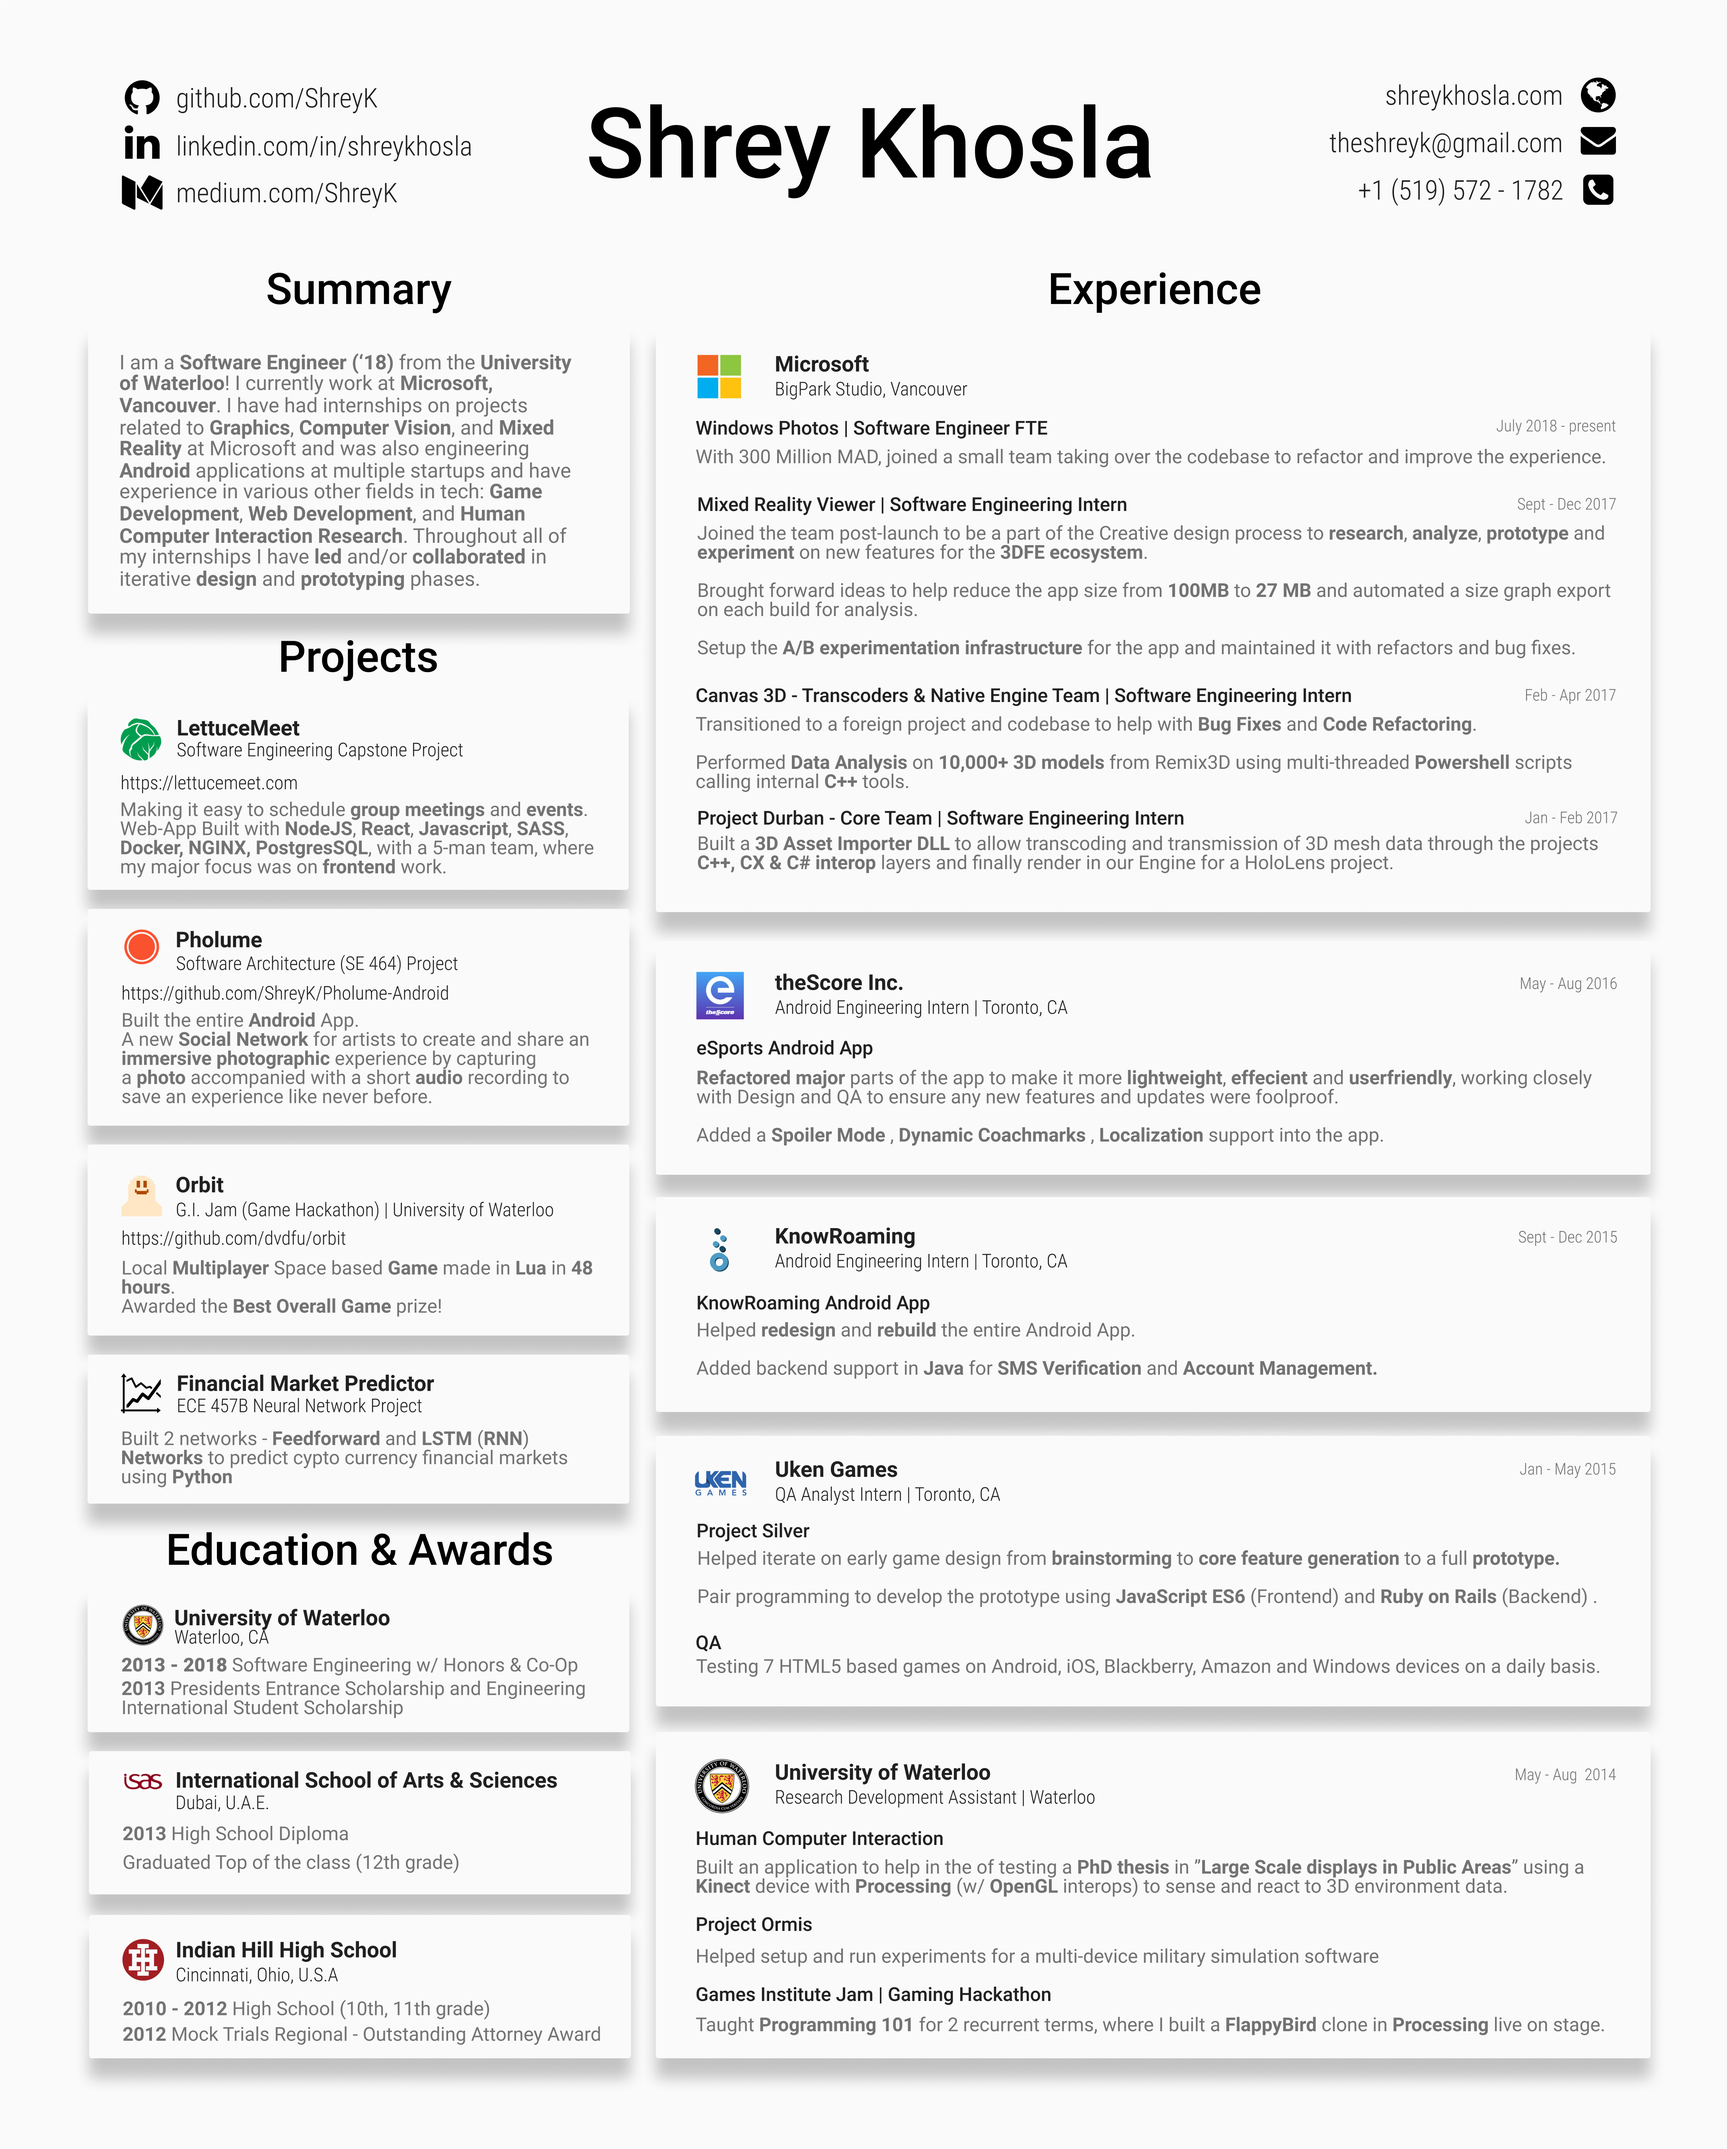
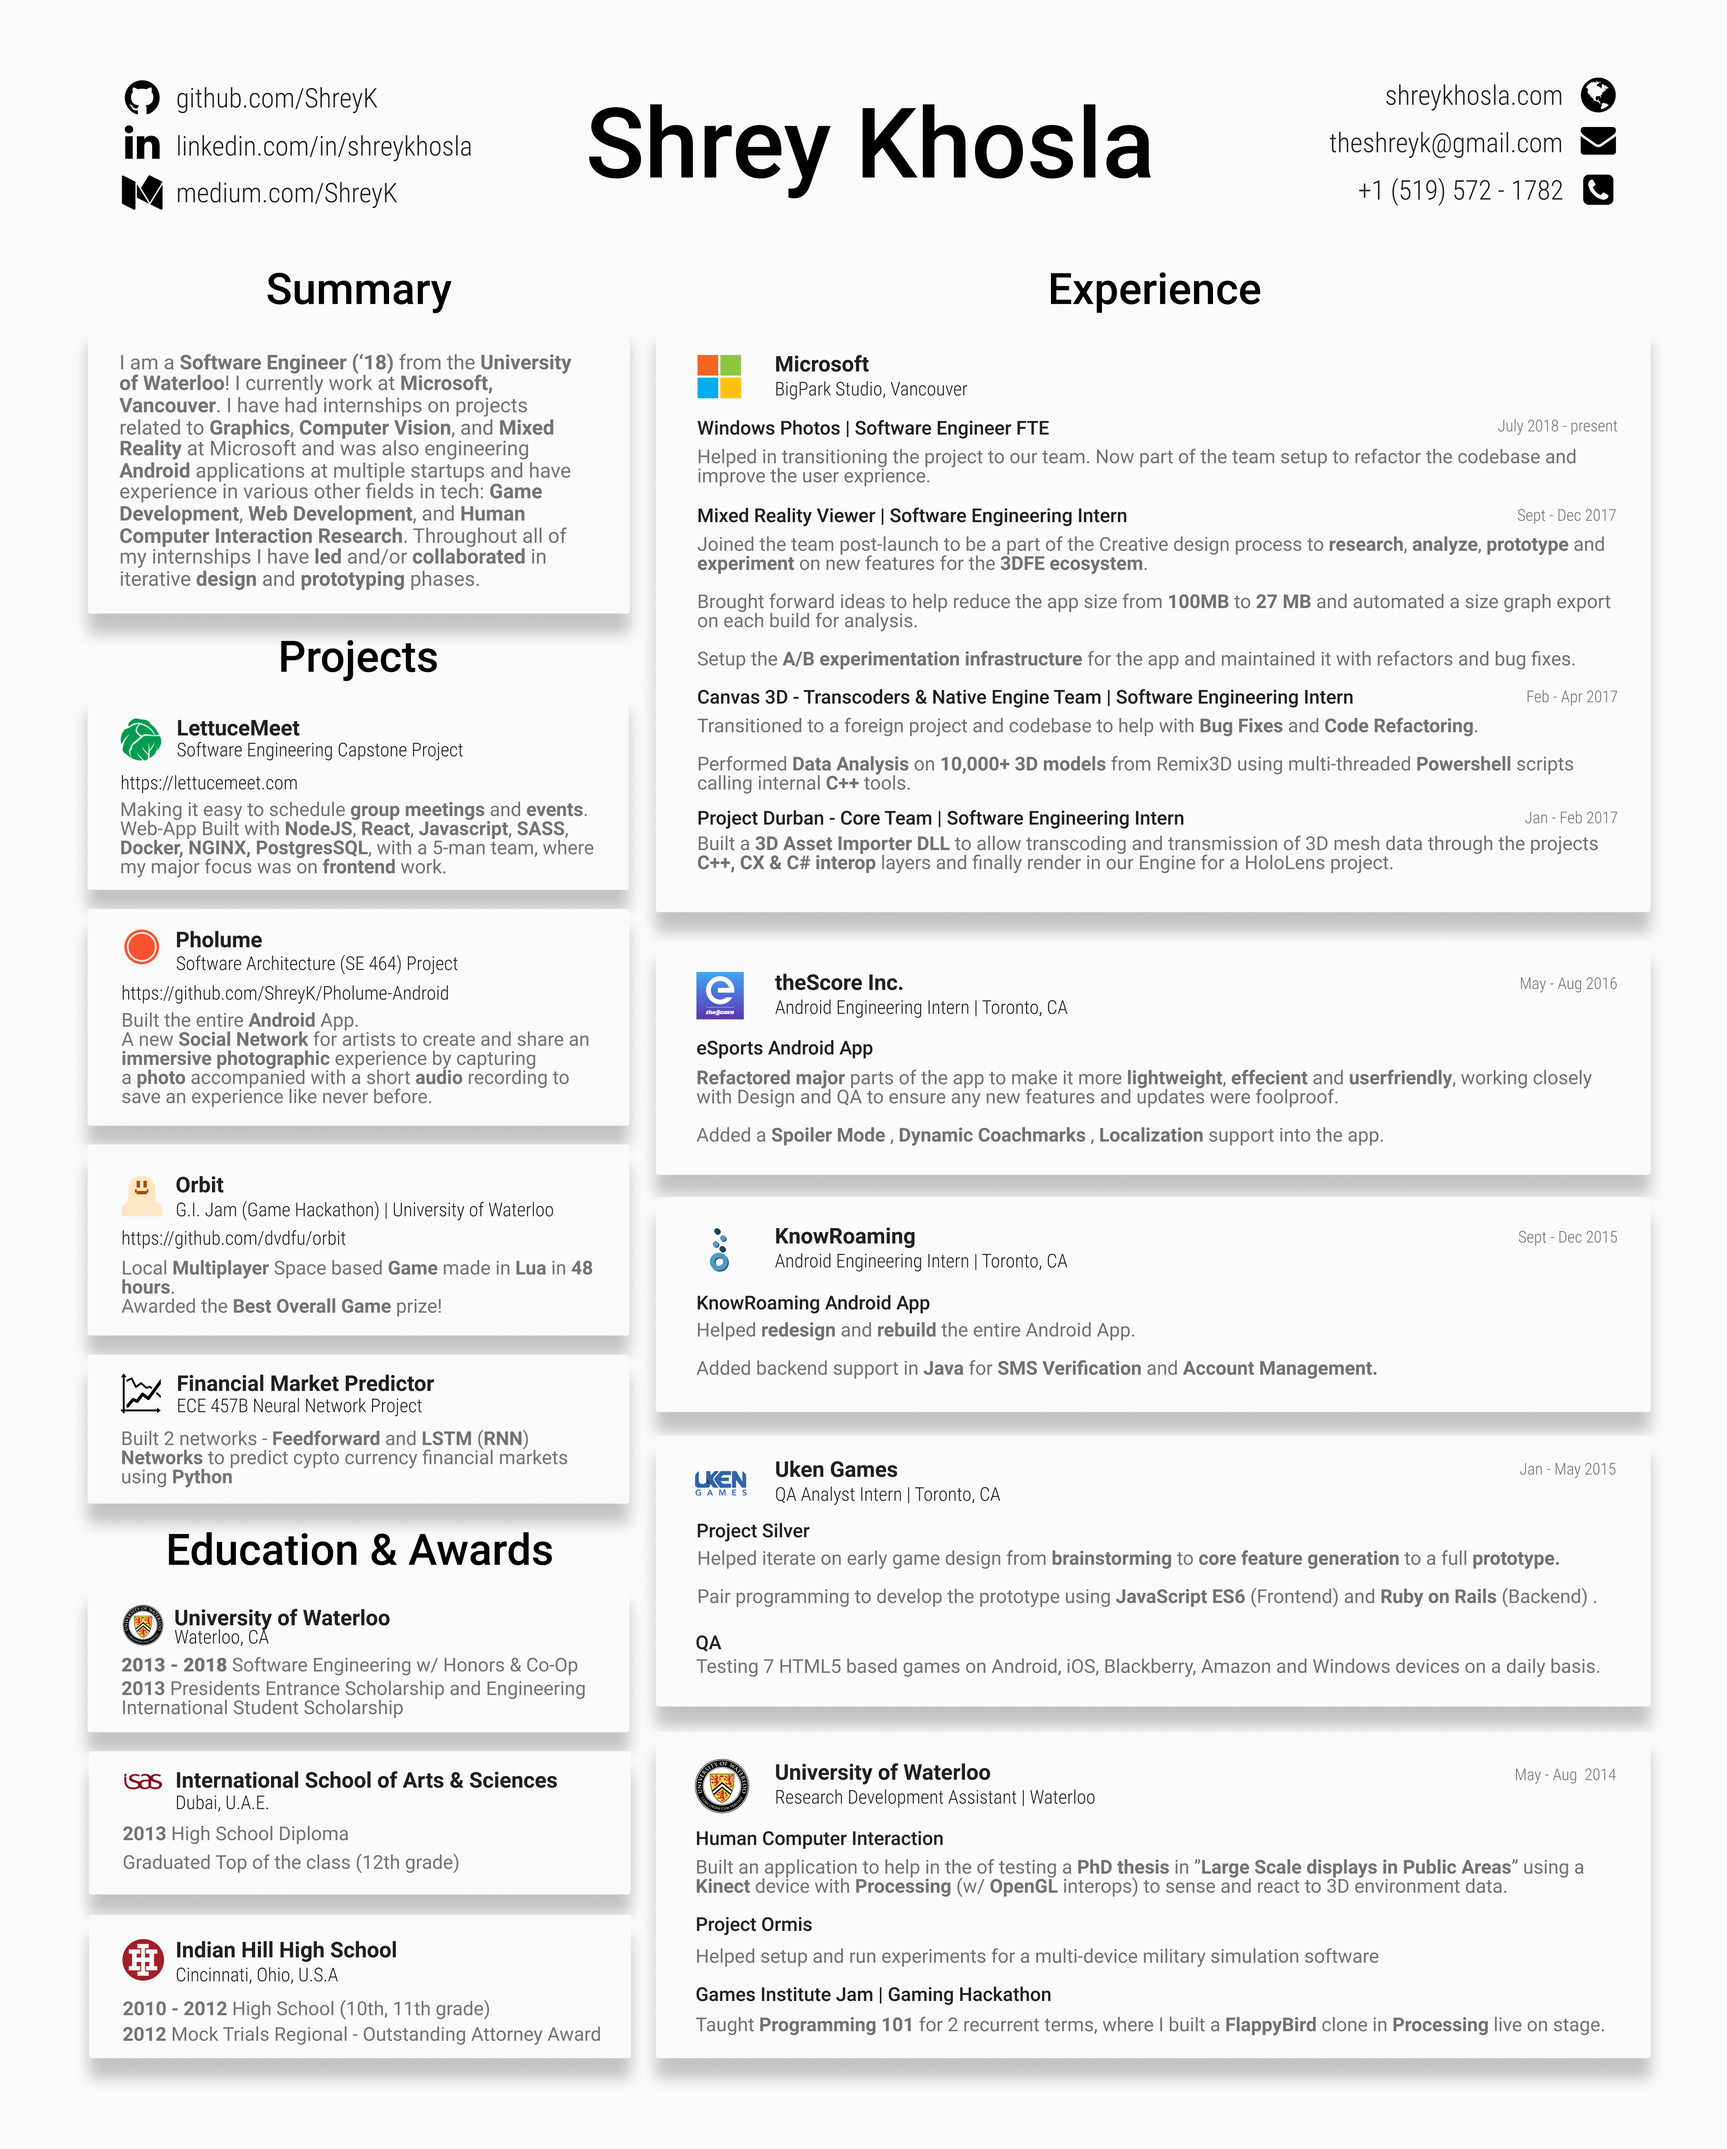
Updates

Changed region(s): [[0.4044, 0.1867, 0.9332, 0.3733]]

diff --git a/index.html b/index.html
@@ -31,7 +31,7 @@
                     <div class="mdl-cell mdl-cell--8-col mdl">
                         <h2 class="mdl-card__title-text">Hi there!</h2>
                         <div class="mdl-card__supporting-text no-left-padding">
-                            I am a <b></b>Software Engineer(‘18)</b> from the <b>University of Waterloo</b>! I currently work at <b>Microsoft</b>, Vancouver - BigPark Studios. I have had internships on <b>Graphics</b>, <b>Computer Vision</b>, and <b>Mixed Reality</b> projects at Microsoft and was also engineering <b>Android</b> apps at multiple startups and various other fields in tech: <b>Game Development</b>, <b>Web Development</b>, and <b>Human Computer Interaction Research</b>. Throughout all of my internships I have <b>led</b> and/or <b>collaborated</b> in iterative <b>design</b> and <b>prototyping</b> phases.
+                            I am a <b></b>Software Engineer(‘18)</b> from the <b>University of Waterloo</b>! I currently work at <b>Microsoft</b>, Vancouver - BigPark Studios and am on the Windows Photos team. I have had internships on <b>Graphics</b>, <b>Computer Vision</b>, and <b>Mixed Reality</b> projects at Microsoft and was also engineering <b>Android</b> apps at multiple startups and various other fields in tech: <b>Game Development</b>, <b>Web Development</b>, and <b>Human Computer Interaction Research</b>. Throughout all of my internships I have <b>led</b> and/or <b>collaborated</b> in iterative <b>design</b> and <b>prototyping</b> phases.
                         </div>
                     </div>
                 </div>
